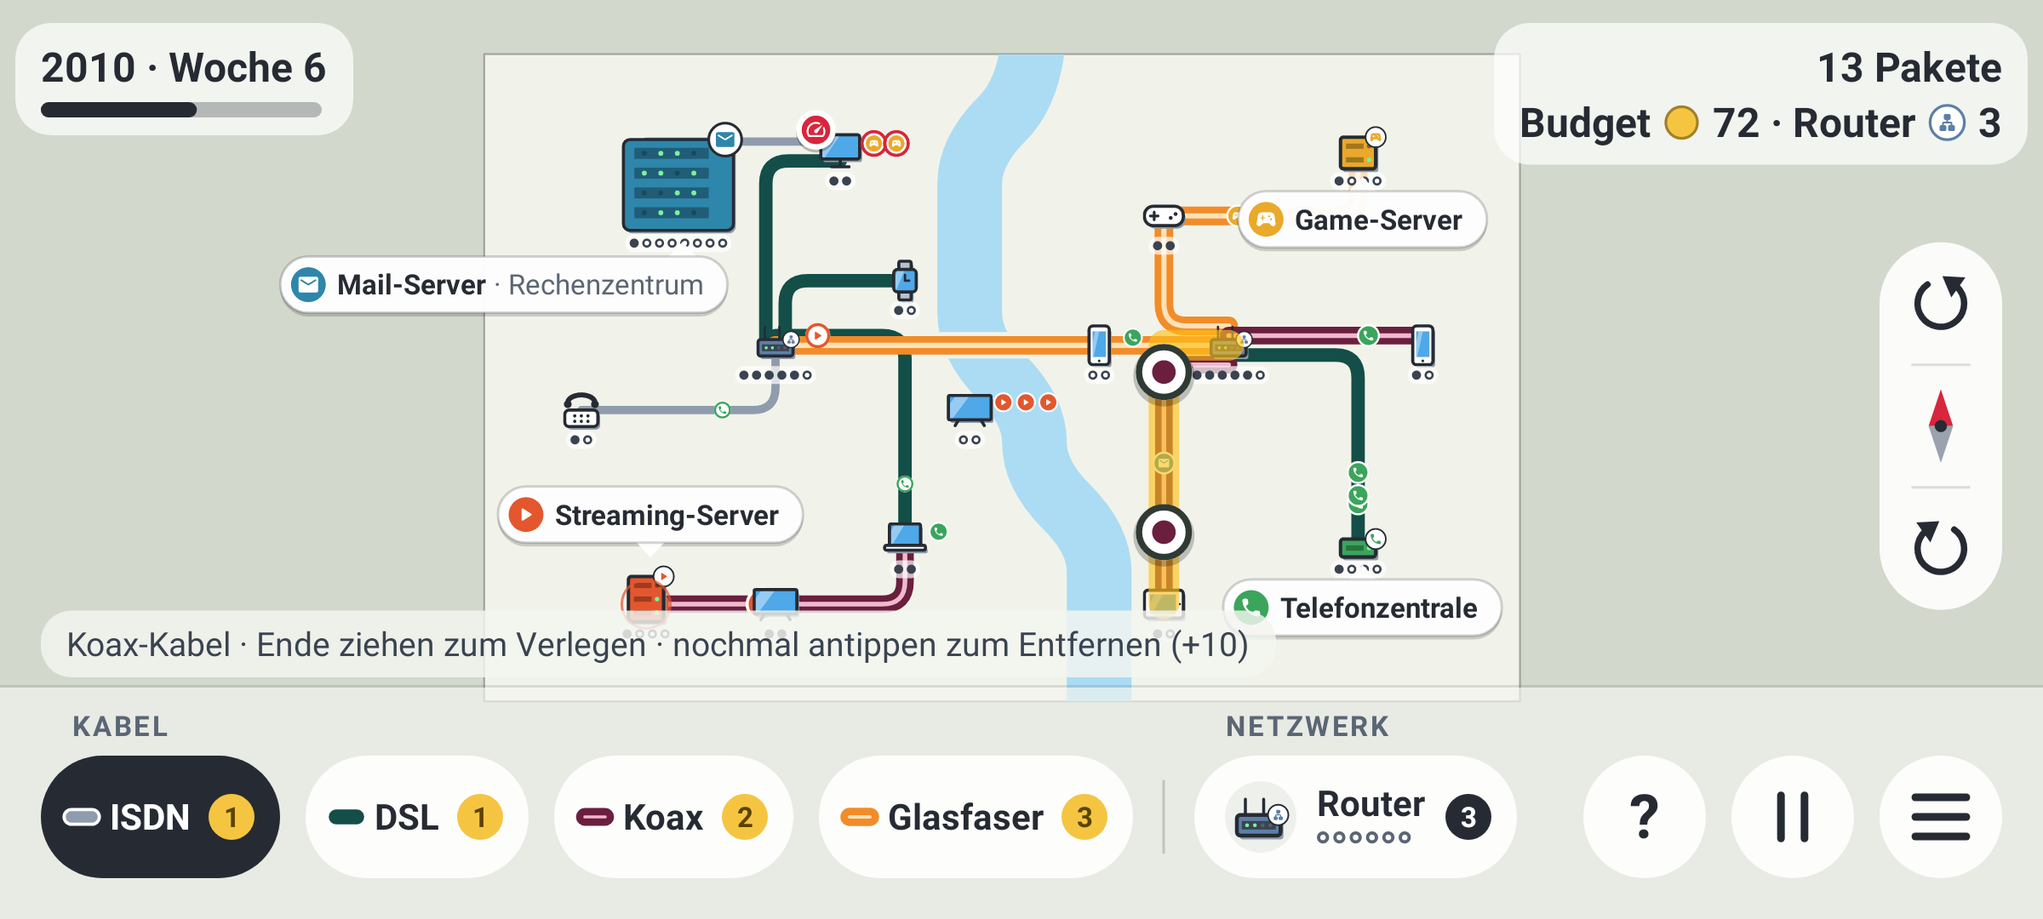
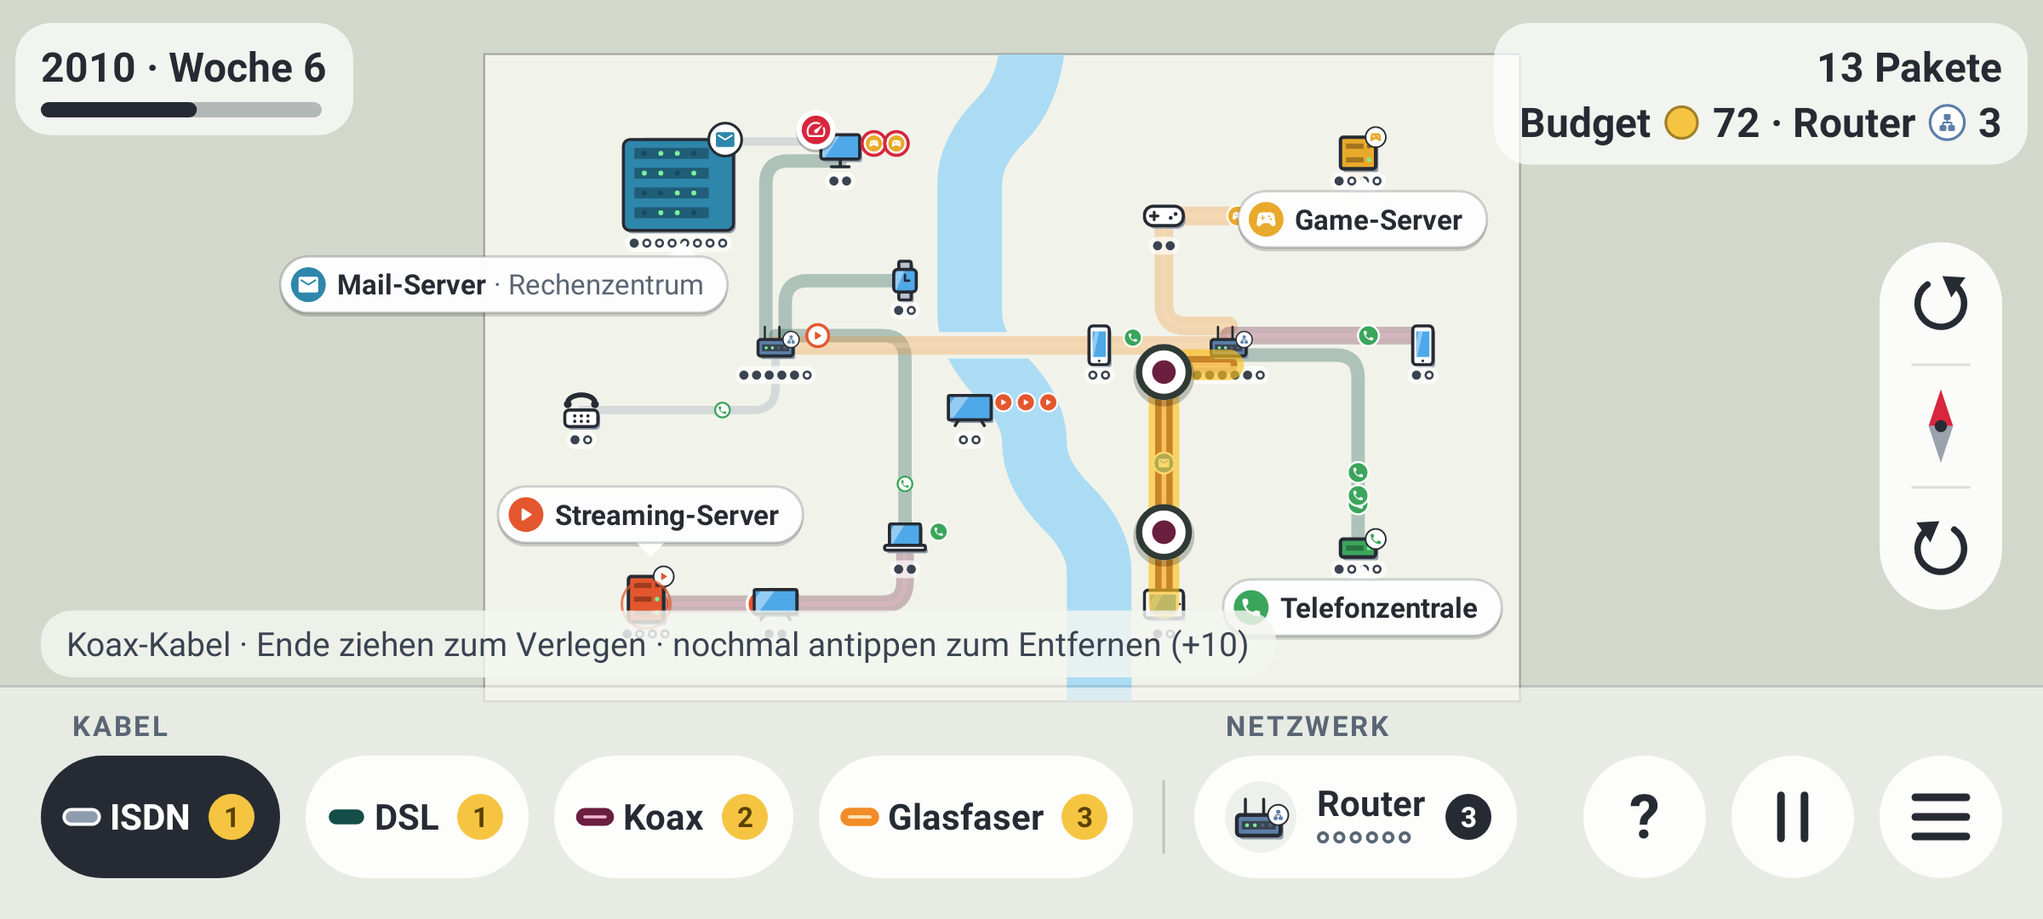
Kabel-Fokus beim Antippen und Spurabstand wächst beim Auszoomen
Tippt man ein Kabel an, wird es oben kräftig gezeichnet und alle anderen
laid Kabel treten auf 30 % Deckkraft zurück (Iso und Flat; der Bodencache
kennt den Fokus). Beim Auszoomen weitet World.laneSpread den Abstand der
Spuren, damit zwei parallele Kabel mindestens 6 dp auseinanderliegen
(CableLanes.spreadFor, höchstens 1,8-fach). Auswahl-Highlight folgt der Spur.

Claude-Session: https://claude.ai/code/session_01NJqTkP4aewL6EEHZZavqAu

diff --git a/app/src/main/java/com/mininetworks/game/render/IsoRenderer.kt b/app/src/main/java/com/mininetworks/game/render/IsoRenderer.kt
@@ -80,6 +80,7 @@ class IsoRenderer : Renderer {
     override val tilts get() = true
     override var density = 1f
     override val serverLabels = ServerLabels()
+    override var focusCable: Cable? = null
     /** A tile at least [READABLE_TILE_DP] wide on first launch, close to the store framing: devices and packets read at phone size. */
     override val readableScale get() = READABLE_TILE_DP * density
     /** Tile width and height in pixels at the current zoom. */
@@ -398,16 +399,16 @@ class IsoRenderer : Renderer {
      * colour. Cables side by side in their lanes ([CableLanes]) draw all outlines first and all bodies after, so one
      * cable's halo never covers the colour of its neighbour.
      */
-    private fun strokeCableOutline(canvas: Canvas, st: CableStyles.Style) {
-        strokeP.color = CABLE_OUTLINE; strokeP.strokeWidth = tw * (st.width * 0.75f + 0.13f); canvas.drawPath(path, strokeP)
-        strokeP.color = 0xB3FFFFFF.toInt(); strokeP.strokeWidth = tw * (st.width * 0.75f + 0.08f); canvas.drawPath(path, strokeP)
+    private fun strokeCableOutline(canvas: Canvas, st: CableStyles.Style, fade: Float = 1f) {
+        strokeP.color = Renderer.fade(CABLE_OUTLINE, fade); strokeP.strokeWidth = tw * (st.width * 0.75f + 0.13f); canvas.drawPath(path, strokeP)
+        strokeP.color = Renderer.fade(0xB3FFFFFF.toInt(), fade); strokeP.strokeWidth = tw * (st.width * 0.75f + 0.08f); canvas.drawPath(path, strokeP)
     }
 
     /** The cable colour and its core of the cable in [path], in a thin dark edge so it still reads where cables cross. */
-    private fun strokeCableBody(canvas: Canvas, st: CableStyles.Style) {
-        strokeP.color = CABLE_OUTLINE; strokeP.strokeWidth = tw * (st.width * 0.75f + 0.035f); canvas.drawPath(path, strokeP)
-        strokeP.color = st.color; strokeP.strokeWidth = tw * st.width * 0.75f; canvas.drawPath(path, strokeP)
-        st.core?.let { strokeP.color = it; strokeP.strokeWidth = tw * st.coreWidth * 0.75f; canvas.drawPath(path, strokeP) }
+    private fun strokeCableBody(canvas: Canvas, st: CableStyles.Style, fade: Float = 1f) {
+        strokeP.color = Renderer.fade(CABLE_OUTLINE, fade); strokeP.strokeWidth = tw * (st.width * 0.75f + 0.035f); canvas.drawPath(path, strokeP)
+        strokeP.color = Renderer.fade(st.color, fade); strokeP.strokeWidth = tw * st.width * 0.75f; canvas.drawPath(path, strokeP)
+        st.core?.let { strokeP.color = Renderer.fade(it, fade); strokeP.strokeWidth = tw * st.coreWidth * 0.75f; canvas.drawPath(path, strokeP) }
     }
 
     /** True if [c] is fully laid ([grow] = 1) and not cut: then it does not change from frame to frame. */
@@ -415,15 +416,19 @@ class IsoRenderer : Renderer {
 
     /** The laid, uncut cables, drawn into the ground layer so a still frame does not stroke them again. */
     private fun drawStaticCables(c: Canvas, world: World) {
-        for (cable in world.cables) {
-            if (!isStatic(world, cable)) continue
-            polyline(cablePath(cable))
-            strokeCableOutline(c, CableStyles.of(cable.type))
-        }
-        for (cable in world.cables) {
-            if (!isStatic(world, cable)) continue
-            polyline(cablePath(cable))
-            strokeCableBody(c, CableStyles.of(cable.type))
+        // The focus cable last, on top of the faded others; with none, every cable at full strength.
+        val focus = focusCable
+        for (pass in 0..1) {
+            for (cable in world.cables) {
+                if (!isStatic(world, cable) || (cable === focus) != (pass == 1)) continue
+                polyline(cablePath(cable))
+                strokeCableOutline(c, CableStyles.of(cable.type), dimOf(cable))
+            }
+            for (cable in world.cables) {
+                if (!isStatic(world, cable) || (cable === focus) != (pass == 1)) continue
+                polyline(cablePath(cable))
+                strokeCableBody(c, CableStyles.of(cable.type), dimOf(cable))
+            }
         }
     }
 
@@ -576,7 +581,7 @@ class IsoRenderer : Renderer {
      * cells excavators stand on. Runs every frame, so it only mixes numbers and allocates nothing.
      */
     private fun mapSignature(world: World): Long {
-        var h = mix(mix(networkSignature(world), Cosmetic.theme.ordinal), Cosmetic.skin.ordinal)
+        var h = mix(mix(mix(networkSignature(world), Cosmetic.theme.ordinal), Cosmetic.skin.ordinal), focusCable?.let { System.identityHashCode(it) } ?: 0)
         // Laid, uncut cables are part of the ground; one that finishes growing or is cut changes it.
         val cables = world.cables
         for (k in cables.indices) h = mix(h, if (isStatic(world, cables[k])) 1 else 0)

diff --git a/app/src/test/java/com/mininetworks/game/render/CableLanesScreenshotTest.kt b/app/src/test/java/com/mininetworks/game/render/CableLanesScreenshotTest.kt
@@ -3,8 +3,13 @@ package com.mininetworks.game.render
 import android.graphics.Bitmap
 import android.graphics.Canvas
 import com.mininetworks.game.data.SettingsStore
+import android.view.MotionEvent
+import com.mininetworks.game.game.Cable
+import com.mininetworks.game.game.CableLanes
 import com.mininetworks.game.game.DebugApi
 import com.mininetworks.game.ui.GameView
+import org.junit.Assert.assertNotNull
+import org.junit.Assert.assertSame
 import org.junit.Assert.assertTrue
 import org.junit.Before
 import org.junit.Test
@@ -47,6 +52,55 @@ class CableLanesScreenshotTest {
             view.drawSnapshot(Canvas(bmp), world, w, h, time = 1.3f, style = style)
             save(bmp, name)
         }
+    }
+
+    @Test
+    fun aSelectedCableStandsOutAndTheOthersFade() {
+        val world = Scenes.crowdedTown()
+        for ((style, w, h, name) in listOf(
+            Shot("Iso", 2400, 1080, "cables-focus-iso.png"),
+            Shot("Flat", 2400, 1080, "cables-focus-flat.png"),
+        )) {
+            val view = GameView(app)
+            val bmp = Bitmap.createBitmap(w, h, Bitmap.Config.ARGB_8888)
+            view.drawSnapshot(Canvas(bmp), world, w, h, time = 1.3f, style = style)
+            val plain = Bitmap.createBitmap(bmp)
+            view.hudTarget("pause")!!.let {
+                view.injectTouch(MotionEvent.ACTION_DOWN, it.centerX(), it.centerY(), time = 0L)
+                view.injectTouch(MotionEvent.ACTION_UP, it.centerX(), it.centerY(), time = 50L)
+            }
+            // A tap on a cable's middle may hit a device or another lane first: try along the longest cables until one is selected.
+            var clock = 1_000L
+            search@ for (target in world.cables.sortedByDescending { it.layout.length }.take(6)) {
+                for (f in listOf(0.5f, 0.35f, 0.65f, 0.25f, 0.75f)) {
+                    val at = view.activeRenderer.toScreen(target.pointAt(f))
+                    view.injectTouch(MotionEvent.ACTION_DOWN, at.x, at.y, time = clock)
+                    view.injectTouch(MotionEvent.ACTION_UP, at.x, at.y, time = clock + 50L)
+                    clock += 1_000L
+                    if (view.selected is Cable) break@search
+                }
+            }
+            val picked = view.selected as? Cable
+            assertNotNull("a tap on a cable selects a cable", picked)
+            view.drawCurrent(Canvas(bmp))
+            assertSame("the renderer follows the selection", picked, view.activeRenderer.focusCable)
+            var changed = 0
+            for (y in 0 until h step 3) for (x in 0 until w step 3) if (plain.getPixel(x, y) != bmp.getPixel(x, y)) changed++
+            assertTrue("fading the other cables changes the picture ($changed)", changed > 2_000)
+            save(bmp, name)
+        }
+    }
+
+    @Test
+    fun zoomedOutTheLanesKeepTheirDistance() {
+        val world = Scenes.crowdedTown()
+        val view = GameView(app)
+        val bmp = Bitmap.createBitmap(1080, 2400, Bitmap.Config.ARGB_8888)
+        view.drawSnapshot(Canvas(bmp), world, 1080, 2400, time = 1.3f, style = "Iso")
+        val unit = view.activeRenderer.unitPx
+        assertTrue("never beyond the cap", world.laneSpread in 1f..CableLanes.MAX_SPREAD)
+        val pitch = unit * CableLanes.SPACING * world.laneSpread
+        assertTrue("lanes at least 6 dp apart or at the cap ($pitch px)", pitch >= 6f * app.resources.displayMetrics.density - 0.5f || world.laneSpread == CableLanes.MAX_SPREAD)
     }
 
     private data class Shot(val style: String, val w: Int, val h: Int, val name: String)

diff --git a/core/src/main/kotlin/com/mininetworks/game/game/CableLanes.kt b/core/src/main/kotlin/com/mininetworks/game/game/CableLanes.kt
@@ -22,12 +22,26 @@ object CableLanes {
     /** Distance between two lanes in cells; four lanes then take up 0.9 of a cell, so they stay inside their cells; wide enough that two fibers side by side do not touch. */
     const val SPACING = 0.30f
 
+    /** How far zooming out may widen the lanes ([spreadFor]); four lanes then take up 1.6 cells, which still keeps them apart from the next row's. */
+    const val MAX_SPREAD = 1.8f
+
+    /**
+     * The factor for [SPACING] that keeps two lanes at least [minPitchPx] apart on a screen where one world unit is
+     * [unitPx] pixels: 1 while zoomed in, more as the map shrinks, in steps of a tenth so a pinch does not re-lay the
+     * cables every frame.
+     */
+    fun spreadFor(unitPx: Float, minPitchPx: Float): Float {
+        if (unitPx <= 0f) return 1f
+        val wanted = minPitchPx / (unitPx * SPACING)
+        return (Math.round(wanted.coerceIn(1f, MAX_SPREAD) * 10f) / 10f)
+    }
+
     private class Run(val edges: LongArray, val horizontal: Boolean) {
         var lane = 0
     }
 
-    /** Sets [Cable.path] of every cable in [cables]. */
-    fun assign(cables: List<Cable>) {
+    /** Sets [Cable.path] of every cable in [cables], their lanes [spread] times as far apart as [SPACING]. */
+    fun assign(cables: List<Cable>, spread: Float = 1f) {
         val used = HashMap<Long, Int>()
         val runs = ArrayList<Array<Run?>>(cables.size)
         for (c in cables) {
@@ -43,7 +57,7 @@ object CableLanes {
             }
             runs += perRun
         }
-        for ((k, c) in cables.withIndex()) c.path = pathOf(c.layout.waypoints, runs[k], used)
+        for ((k, c) in cables.withIndex()) c.path = pathOf(c.layout.waypoints, runs[k], used, spread)
     }
 
     /** The straight run from [a] to [b] as the cell edges it covers; null for a zero-length or diagonal one. */
@@ -70,14 +84,14 @@ object CableLanes {
     private fun edge(orientation: Int, line: Int, pos: Int) = (orientation * OFFSET + line + OFFSET / 2) * OFFSET + pos + OFFSET / 2
 
     /** The offset of [run] from the middle of its cells, in cells. */
-    private fun offsetOf(run: Run, used: Map<Long, Int>): Float {
+    private fun offsetOf(run: Run, used: Map<Long, Int>, spread: Float): Float {
         var top = 0
         for (e in run.edges) top = maxOf(top, 31 - Integer.numberOfLeadingZeros(used[e] ?: 1))
-        return (run.lane - top / 2f) * SPACING
+        return (run.lane - top / 2f) * SPACING * spread
     }
 
-    private fun pathOf(pts: List<Vec2>, runs: Array<Run?>, used: Map<Long, Int>): List<Vec2> {
-        val offsets = FloatArray(runs.size) { i -> runs[i]?.let { offsetOf(it, used) } ?: 0f }
+    private fun pathOf(pts: List<Vec2>, runs: Array<Run?>, used: Map<Long, Int>, spread: Float): List<Vec2> {
+        val offsets = FloatArray(runs.size) { i -> runs[i]?.let { offsetOf(it, used, spread) } ?: 0f }
         if (offsets.all { it == 0f }) return pts
         return pts.mapIndexed { i, p ->
             // A corner takes its y from the horizontal run and its x from the vertical run that meet there; the end of

diff --git a/app/src/main/java/com/mininetworks/game/render/FlatRenderer.kt b/app/src/main/java/com/mininetworks/game/render/FlatRenderer.kt
@@ -6,6 +6,7 @@ import android.graphics.Paint
 import android.graphics.Path
 import android.graphics.RectF
 import android.graphics.Typeface
+import com.mininetworks.game.game.Cable
 import com.mininetworks.game.game.CellRect
 import com.mininetworks.game.game.Incident
 import com.mininetworks.game.game.IncidentKind
@@ -41,6 +42,7 @@ class FlatRenderer : Renderer {
     override val camera = Camera()
     override var density = 1f
     override val serverLabels = ServerLabels()
+    override var focusCable: Cable? = null
     /** A cell at least [READABLE_CELL_DP] wide in the automatic framing. */
     override val readableScale get() = READABLE_CELL_DP * density
     private val cell get() = camera.scale
@@ -122,19 +124,23 @@ class FlatRenderer : Renderer {
         drawLockedArea(canvas, world, grid)
 
         // Cables side by side in their lanes ([CableLanes]): all halos first, so one cable's halo never covers its neighbour.
+        val focus = focusCable
         for (c in world.cables) {
             val grow = Juice.growth(world.time, c.builtAt, c.layout.length)
             if (grow < 1f) partialPolyline(cablePath(c), grow) else polyline(cablePath(c))
             cableP.color = land; cableP.strokeWidth = cell * (CableStyles.of(c.type).width * FLAT_LINE + 0.12f); canvas.drawPath(path, cableP)
         }
-        for (c in world.cables) {
+        // The focus cable last, on top of the faded others.
+        for (pass in 0..1) for (c in world.cables) {
+            if ((c === focus) != (pass == 1)) continue
             val grow = Juice.growth(world.time, c.builtAt, c.layout.length)
             if (grow < 1f) partialPolyline(cablePath(c), grow) else polyline(cablePath(c))
             val st = CableStyles.of(c.type)
+            val dim = dimOf(c)
             // Bold metro-map lines: the overview reads as a line map, not a wiring plan.
             val lw = st.width * FLAT_LINE
-            cableP.color = st.color; cableP.strokeWidth = cell * lw; canvas.drawPath(path, cableP)
-            st.core?.let { cableP.color = it; cableP.strokeWidth = cell * st.coreWidth * FLAT_LINE; canvas.drawPath(path, cableP) }
+            cableP.color = Renderer.fade(st.color, dim); cableP.strokeWidth = cell * lw; canvas.drawPath(path, cableP)
+            st.core?.let { cableP.color = Renderer.fade(it, dim); cableP.strokeWidth = cell * st.coreWidth * FLAT_LINE; canvas.drawPath(path, cableP) }
             if (world.isJammed(c)) JamStyles.draw(canvas, path, cell * lw, time, c.type, cableP.pathEffect)
             if (world.isCut(c)) {
                 cutP.pathEffect = cutDash.get(cell * 0.12f, 0.7f, 0f)

diff --git a/app/src/main/java/com/mininetworks/game/ui/GameView.kt b/app/src/main/java/com/mininetworks/game/ui/GameView.kt
@@ -36,6 +36,7 @@ import com.mininetworks.game.game.AchievementTracker
 import com.mininetworks.game.game.Achievements
 import com.mininetworks.game.game.Bend
 import com.mininetworks.game.game.Cable
+import com.mininetworks.game.game.CableLanes
 import com.mininetworks.game.game.CableLayout
 import com.mininetworks.game.game.CableSkin
 import com.mininetworks.game.game.CableType
@@ -1308,6 +1309,10 @@ class GameView(context: Context) : SurfaceView(context), SurfaceHolder.Callback 
         val playing = screen == Screen.PLAYING
         pinCount = 0
         renderer.serverLabels.focus = if (playing) serverFocus() else null
+        // A selected cable stands out and the others fade; zoomed out, parallel cables keep a readable distance.
+        val focus = (selection as? Cable)?.takeIf { playing && !grabbing }
+        for (r in renderers) r.focusCable = focus
+        world.laneSpread = CableLanes.spreadFor(renderer.unitPx, LANE_MIN_PITCH_DP * density)
         renderer.draw(canvas, world, if (playing) dragPreview() else null, animTime)
         if (playing) {
             drawSelection(canvas)
@@ -3335,7 +3340,7 @@ class GameView(context: Context) : SurfaceView(context), SurfaceHolder.Callback 
         when (sel) {
             is Cable -> {
                 selectionPath.reset()
-                sel.layout.waypoints.forEachIndexed { k, p ->
+                sel.path.forEachIndexed { k, p ->
                     val q = renderer.toScreen(p)
                     if (k == 0) selectionPath.moveTo(q.x, q.y) else selectionPath.lineTo(q.x, q.y)
                 }
@@ -5366,6 +5371,9 @@ class GameView(context: Context) : SurfaceView(context), SurfaceHolder.Callback 
         /** World-unit size (dp) above which an incident's countdown pin grows with the zoom, and its largest growth. */
         const val PIN_UNIT_DP = 36f
         const val PIN_MAX_SCALE = 1.8f
+
+        /** Least distance between two parallel cables on screen ([CableLanes.spreadFor]). */
+        const val LANE_MIN_PITCH_DP = 6f
         /** Diameter of an off-screen chip, a full touch target; at most this many show, each trying this many slides. */
         const val OFFSCREEN_CHIP_DP = 48f
         const val MAX_OFFSCREEN_CHIPS = 4

diff --git a/core/src/test/kotlin/com/mininetworks/game/game/CableLanesTest.kt b/core/src/test/kotlin/com/mininetworks/game/game/CableLanesTest.kt
@@ -128,4 +128,47 @@ class CableLanesTest {
         }
         assertTrue(hub2.cell != hub.cell)
     }
+
+    @Test
+    fun lanesSpreadWiderWhenTheMapIsZoomedOut() {
+        val w = world()
+        val a = row(w, 1, 6, y = 1)
+        val b = row(w, 2, 7, y = 1)
+        CableLanes.assign(listOf(a, b), spread = 1.5f)
+        assertEquals(CableLanes.SPACING * 1.5f, b.path.first().y - a.path.first().y, 1e-4f)
+        assertEquals("still centred on the cells", centreY(a), (a.path.first().y + b.path.first().y) / 2f, 1e-4f)
+    }
+
+    @Test
+    fun spreadGrowsAsOneCellGetsSmallerAndIsCapped() {
+        val pitch = 6f
+        assertEquals("zoomed in: lanes as laid", 1f, CableLanes.spreadFor(unitPx = 100f, minPitchPx = pitch), 0f)
+        // 14 px per cell: 0.3 cell is 4.2 px, 6 px wanted, so about 1.4 times as far apart.
+        assertEquals(1.4f, CableLanes.spreadFor(unitPx = 14f, minPitchPx = pitch), 1e-4f)
+        assertEquals("never wider than the cap", CableLanes.MAX_SPREAD, CableLanes.spreadFor(unitPx = 3f, minPitchPx = pitch), 0f)
+        assertEquals(1f, CableLanes.spreadFor(unitPx = 0f, minPitchPx = pitch), 0f)
+    }
+
+    @Test
+    fun theWorldRelaysItsCablesWhenTheSpreadChanges() {
+        val w = world()
+        w.grant(200)
+        val pc1 = w.addClient(Device.PC, 1, 1)
+        val pc2 = w.addClient(Device.PC, 2, 1)
+        val hub = w.addRouter(8, 3)
+        assertTrue(w.connect(pc1, hub, CableType.ISDN))
+        assertTrue(w.connect(pc2, hub, CableType.ISDN))
+        val shift = { c: Cable -> c.path.indices.map { c.path[it].x - c.layout.waypoints[it].x to c.path[it].y - c.layout.waypoints[it].y } }
+        val before = w.cables.map(shift)
+        assertTrue("the cables are in lanes", before.any { s -> s.any { it != 0f to 0f } })
+        w.laneSpread = 1.5f
+        for ((k, c) in w.cables.withIndex()) {
+            for ((i, d) in shift(c).withIndex()) {
+                assertEquals(before[k][i].first * 1.5f, d.first, 1e-4f)
+                assertEquals(before[k][i].second * 1.5f, d.second, 1e-4f)
+            }
+        }
+        w.laneSpread = 1f
+        assertEquals("back as laid", before, w.cables.map(shift))
+    }
 }

diff --git a/app/src/main/java/com/mininetworks/game/render/Renderer.kt b/app/src/main/java/com/mininetworks/game/render/Renderer.kt
@@ -67,6 +67,12 @@ interface Renderer {
     /** Pixels per dp of the screen, for sizes that must stay readable at any zoom; set by the view, 1 by default. */
     var density: Float
 
+    /**
+     * The cable the player is looking at: it is drawn on top at full strength and every other laid cable fades, so one
+     * cable can be followed through a crowded network. Set by the view; null leaves all cables as they are.
+     */
+    var focusCable: Cable?
+
     /** Server name plates and the highlight of the servers a device needs; the view sets names and focus. */
     val serverLabels: ServerLabels
 
@@ -297,6 +303,9 @@ interface Renderer {
     /** How a cable runs in world space: its layout moved to its lane beside other cables ([Cable.path]), so every style agrees. */
     fun cablePath(c: Cable): List<Vec2> = c.path
 
+    /** How strongly [c] is drawn: 1 unless another cable is the [focusCable]. */
+    fun dimOf(c: Cable): Float = if (focusCable == null || focusCable === c) 1f else UNFOCUSED_ALPHA
+
     fun draw(canvas: Canvas, world: World, drag: DragPreview?, time: Float)
 
     /** Size of one world unit on screen at the current zoom. */
@@ -322,6 +331,13 @@ interface Renderer {
     }
 
     companion object {
+        /** Opacity of the laid cables beside the [focusCable]; low enough to step back, high enough to still show where they go. */
+        const val UNFOCUSED_ALPHA = 0.3f
+
+        /** [color] with its opacity multiplied by [factor]. */
+        fun fade(color: Int, factor: Float): Int =
+            if (factor >= 1f) color else ((color ushr 24) * factor).toInt().coerceIn(0, 255) shl 24 or (color and 0xFFFFFF)
+
         /** Angles the zoom-out limit is worked out for; the widest one counts. */
         val LIMIT_ANGLES = floatArrayOf(0f, 30f, 45f, 60f, 90f, 120f, 135f, 150f)
         const val ZOOM_OUT_SLACK = 0.9f

diff --git a/core/src/main/kotlin/com/mininetworks/game/game/World.kt b/core/src/main/kotlin/com/mininetworks/game/game/World.kt
@@ -736,6 +736,17 @@ class World(
         recountLoads()
     }
 
+    /**
+     * How far apart the lanes of cables over the same cells are drawn, as a multiple of [CableLanes.SPACING]: the view
+     * widens them when the map is zoomed out ([CableLanes.spreadFor]). Only how cables are drawn changes, never the game.
+     */
+    var laneSpread = 1f
+        set(value) {
+            if (value == field) return
+            field = value
+            CableLanes.assign(cableList, value)
+        }
+
     /** Puts every cable into the link lists of its two ends ([Node.links]), which [linkBetween] searches. */
     private fun indexCables() {
         for (n in nodeList) n.links.clear()
@@ -743,7 +754,7 @@ class World(
             c.a.links += c
             c.b.links += c
         }
-        CableLanes.assign(cableList)
+        CableLanes.assign(cableList, laneSpread)
     }
 
     /**
